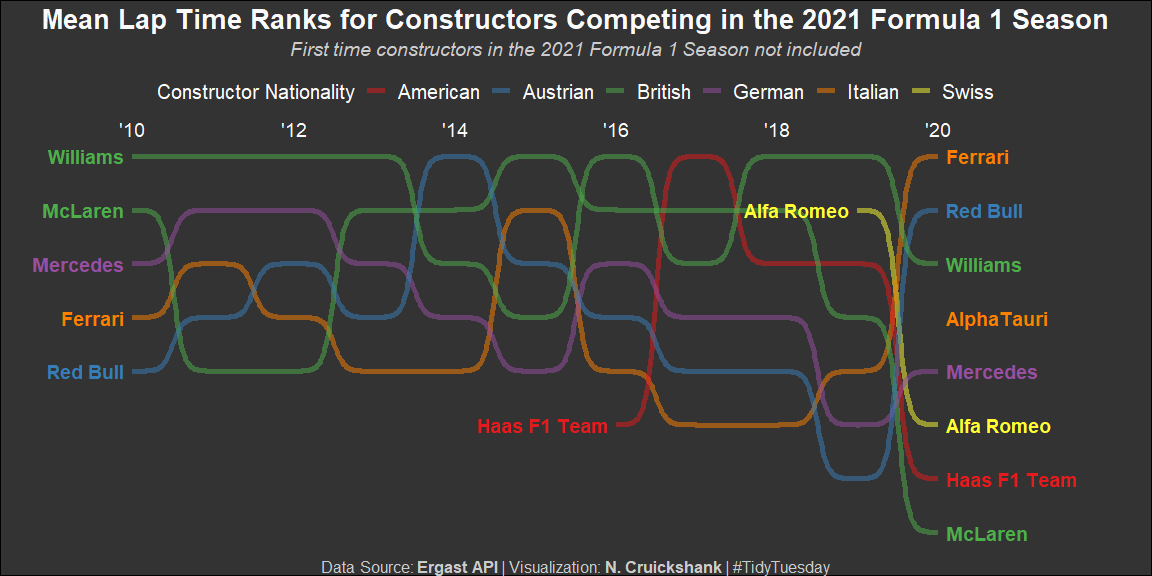
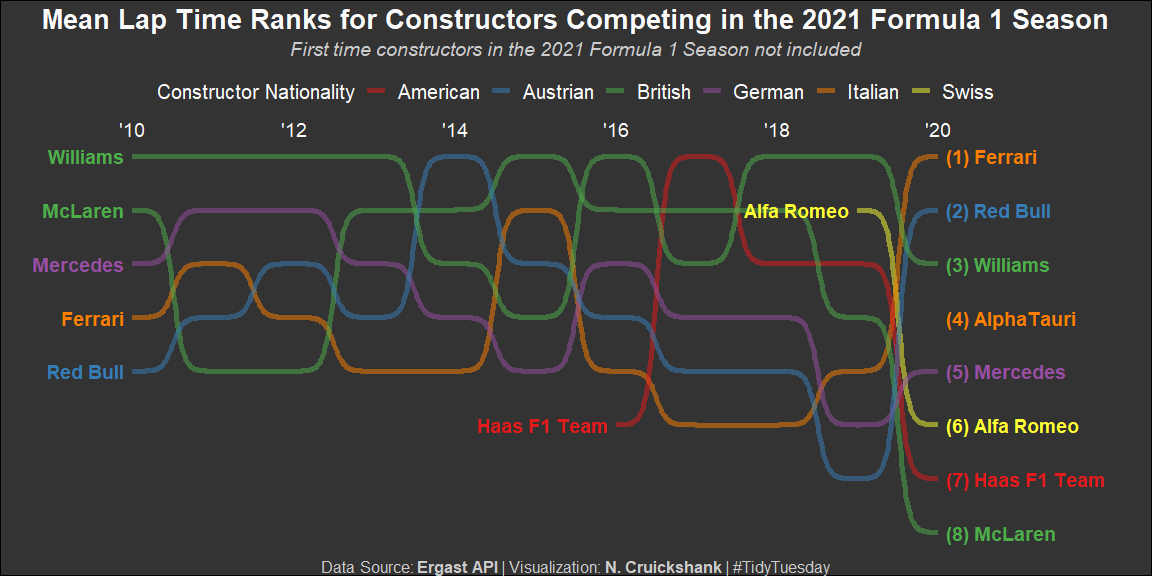
add y-axis label
snuck it in to the end_Label

diff --git a/2021/20210907 - Formula 1 Racing/Formula-1-Racing.md b/2021/20210907 - Formula 1 Racing/Formula-1-Racing.md
@@ -215,7 +215,7 @@ f1_ranks <- f1 %>%
     start_year = ifelse((year == first(year) & (first(year) != last(year))), year, NA),
     start_label = ifelse((year == first(year) & (first(year) != last(year))), name, NA),
     end_year = ifelse(year == last(year), year, NA),
-    end_label = ifelse(year == last(year), name, NA)
+    end_label = ifelse(year == last(year), paste0("(", rank, ") ",name), NA)
   )
 ```
 
